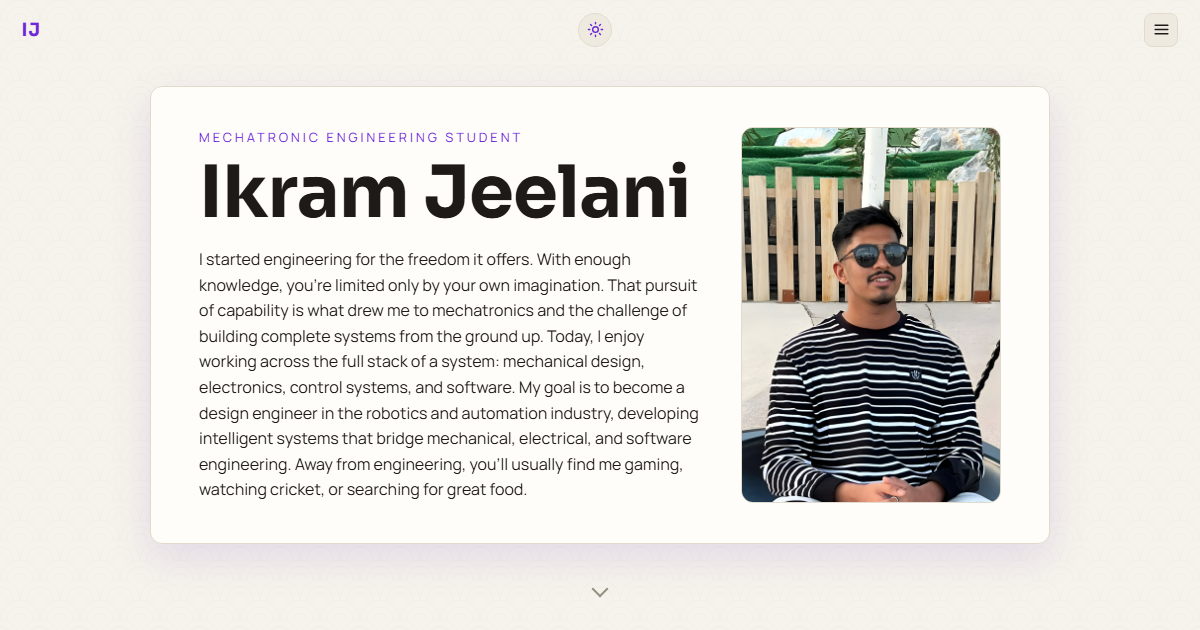
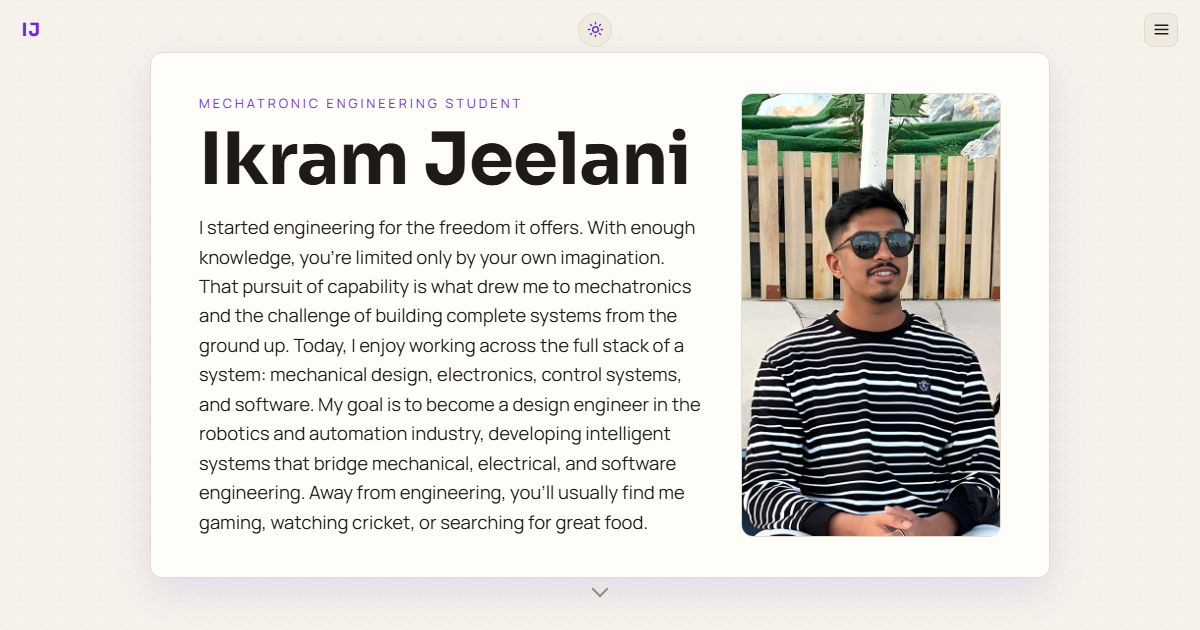
Fix slow-loading hero photo, bump About text size
my_image.jpeg was a full 2308x3024 phone photo at 1.95MB, way oversized
for a ~260px-wide (up to 3x DPR) card thumbnail — that's what was making
it slow to load. Resized to 900px on the long edge and recompressed
(quality 82), down to 141KB. Also added explicit width/height (avoids a
layout shift while it loads) and fetchpriority="high" since it's
above-the-fold content, not something to deprioritize.

.hero-about-text: 1rem -> 1.15rem, matching the size the old standalone
About section used before it moved into the hero.

Changed region(s): [[0.1233, 0.1206, 0.8633, 0.9048], [0.1542, 0.1508, 0.4317, 0.181]]

diff --git a/index.html b/index.html
@@ -91,7 +91,7 @@
           <p class="hero-about-text intro-item" style="--intro-delay:1000ms" id="heroAboutText" hidden></p>
         </div>
         <!-- Filled in by main.js from PROFILE.photo; stays hidden if unset. -->
-        <img class="hero-about-photo intro-item" style="--intro-delay:1000ms" id="heroAboutPhoto" alt="" hidden>
+        <img class="hero-about-photo intro-item" style="--intro-delay:1000ms" id="heroAboutPhoto" alt="" width="260" height="340" fetchpriority="high" hidden>
       </div>
     </section>
   </main>

diff --git a/styles.css b/styles.css
@@ -514,7 +514,7 @@ h1, h2, h3,
 .hero-about-text {
   margin: 1rem 0 0;
   color: var(--text-body);
-  font-size: 1rem;
+  font-size: 1.15rem;
   text-align: left;
 }
 .hero-about-photo {
